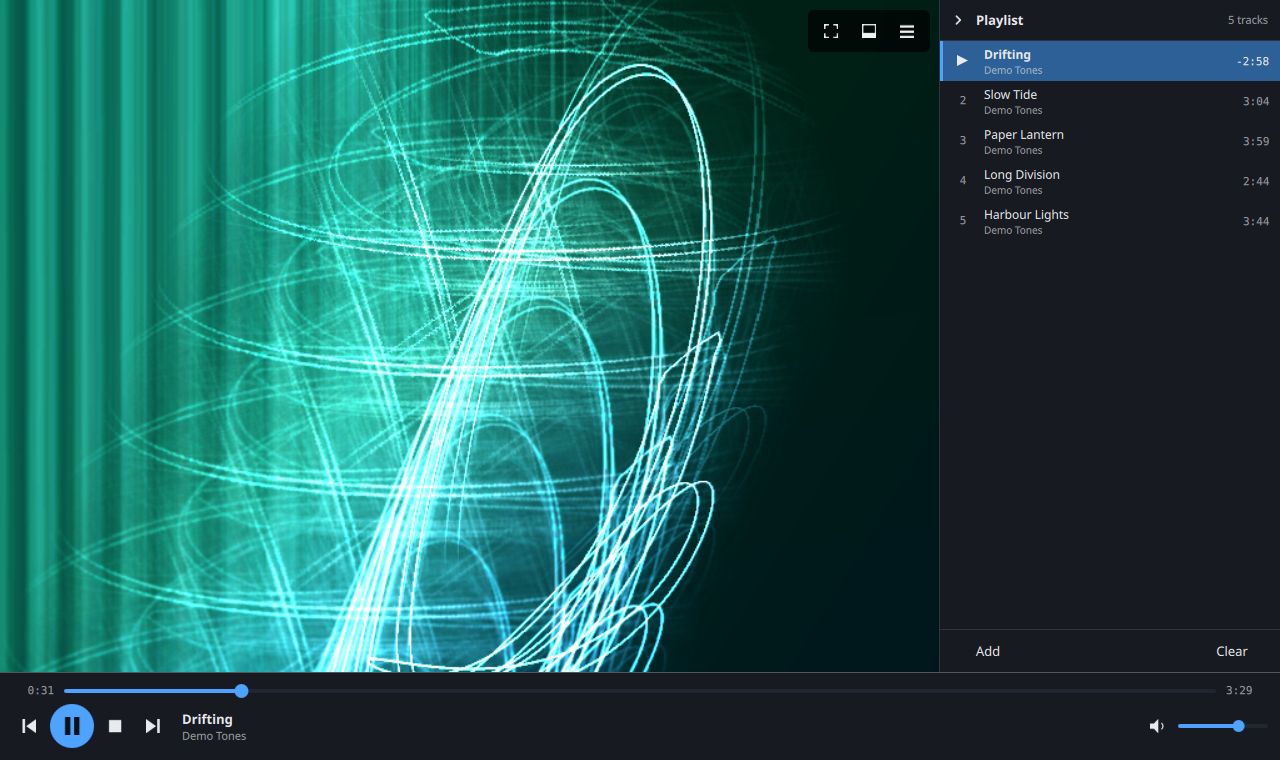
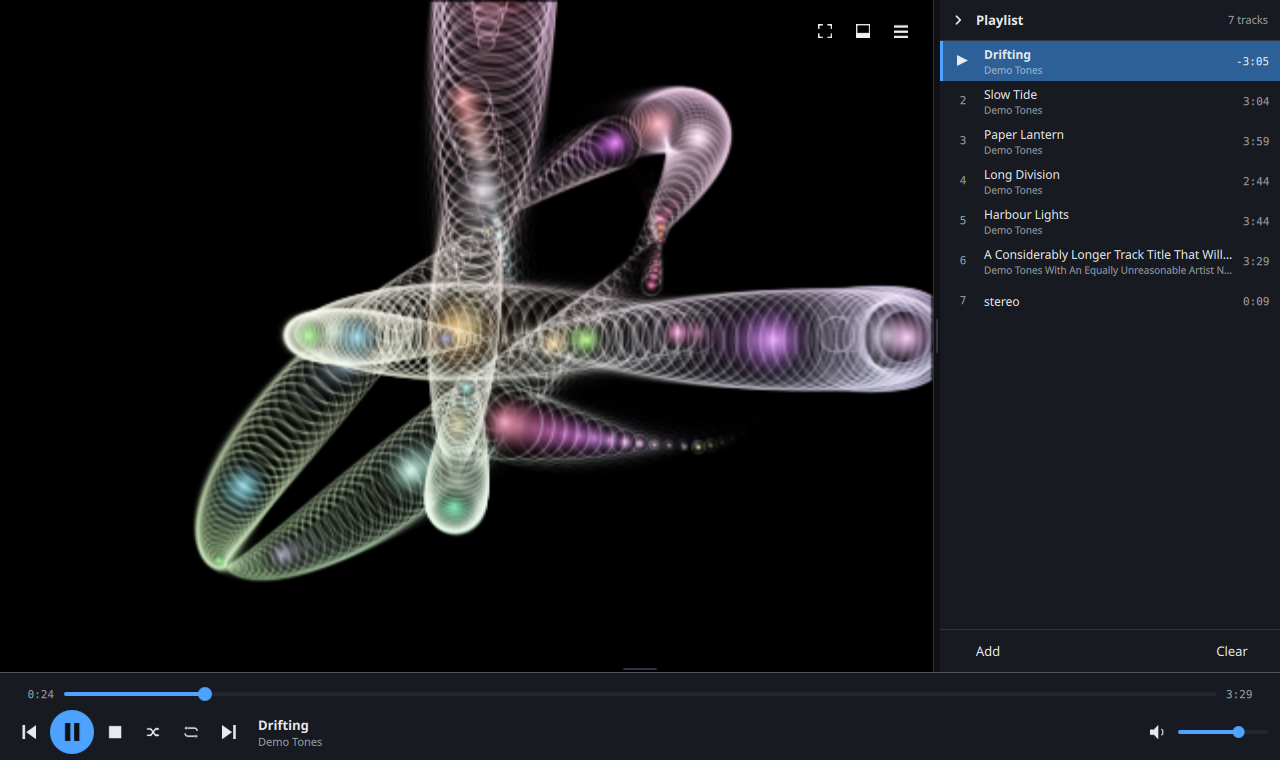
Bound-check video frames, and refresh the README for the push
Security review before publishing. One real finding: the video path built
a QImage over the mapped buffer using width, height and stride taken from
the caps, without checking the buffer was big enough to hold them. Nothing
guarantees those agree, and a media player parses untrusted files by
definition, so a malformed or hostile stream could have read past the
mapping. The frame is now dropped with a warning unless the arithmetic
fits.

The README also described the app as it was several versions ago: no
equaliser, no shuffle or repeat, no resizable panels, a four-colour
editor, and Wayland listed as untested. Refreshed, with a section on the
diagnostics now that they are off by default, and a screenshot taken from
the current build.

diff --git a/src/AudioEngine.cpp b/src/AudioEngine.cpp
@@ -256,11 +256,24 @@ GstFlowReturn onNewVideoSample(GstAppSink *sink, gpointer userData)
         const int height = GST_VIDEO_INFO_HEIGHT(&info);
         const int stride = GST_VIDEO_INFO_PLANE_STRIDE(&info, 0);
 
-        // copy() detaches from the mapped buffer, which is unmapped the moment we return.
-        const QImage frame = QImage(map.data, width, height, stride,
-                                    QImage::Format_RGBA8888).copy();
-        gst_buffer_unmap(buffer, &map);
-        engine->deliverVideoFrame(frame);
+        // The dimensions come from the caps and the bytes come from the buffer, and nothing
+        // guarantees the two agree. A file is untrusted input by definition here, so a stream
+        // whose caps claim more than the buffer holds must not be handed to QImage - it would
+        // read past the mapping. Cheap to check, and the alternative is an out-of-bounds read on
+        // a malformed or hostile video.
+        const bool sane = width > 0 && height > 0 && stride > 0
+                          && map.size >= static_cast<gsize>(height) * static_cast<gsize>(stride);
+        if (sane) {
+            // copy() detaches from the mapped buffer, which is unmapped the moment we return.
+            const QImage frame = QImage(map.data, width, height, stride,
+                                        QImage::Format_RGBA8888).copy();
+            gst_buffer_unmap(buffer, &map);
+            engine->deliverVideoFrame(frame);
+        } else {
+            qWarning("video: frame %dx%d stride %d does not fit in %zu bytes; dropped",
+                     width, height, stride, static_cast<size_t>(map.size));
+            gst_buffer_unmap(buffer, &map);
+        }
     }
 
     gst_sample_unref(sample);

diff --git a/README.md b/README.md
@@ -12,9 +12,12 @@ try to organise your music collection.
 
 ## What it does
 
-- **Transport** — play, pause, stop, next, previous, seek, volume
+- **Transport** — play, pause, stop, next, previous, seek, volume, shuffle, and repeat that cycles
+  off / playlist / one track
 - **Visualisations** — projectM (Milkdrop) presets, embedded or fullscreen, driven by the decoded
   audio. Right-click the visualiser to pick a preset by category, or leave it to rotate.
+- **Equaliser** — twelve preset curves and a ten-band custom mixer, with boosts compensated
+  automatically so a loud curve cannot clip
 - **One playlist** — drag to reorder, multi-select, remove, save and load M3U. Not tabbed
   playlists, not a library.
 - **Video** — plays video on the same surface the visualiser uses, letterboxed, with the controls
@@ -22,8 +25,10 @@ try to organise your music collection.
 - **Internet radio** — streams are entries in the same playlist, with station metadata in the
   now-playing line
 - **Mini-player** — a compact always-on-top layout
+- **A resizable window** — drag the divider to rebalance the playlist against the visualiser, and
+  the top of the transport to make it taller; the controls scale with it
 - **Themes** — follows the desktop's light/dark setting, with ten ready-made palettes and a
-  four-colour custom editor
+  five-colour custom editor, including the visualiser background and how strongly it tints
 - **MPRIS** — media keys and desktop integration
 
 **Deliberately not included:** library management, lyrics, social features, third-party service
@@ -110,12 +115,24 @@ sudo apt install ./build/player/reverie_*_amd64.deb
 
 Reverie is usable and in active development. Known gaps, stated plainly:
 
-- **Wayland is untested.** It should work — nothing is architected against it — but the only
-  platform it has been exercised on is X11. Always-on-top for the mini-player is X11-only and
+- **Wayland works but is less exercised than X11.** It has been run under both, and the mini-player
+  in particular needed a Wayland-specific fix. Always-on-top for the mini-player is X11-only and
   cannot be done portably on Wayland.
 - **Subtitles, hardware decode and video track selection** are not implemented.
-- **Performance figures assume software rendering.** On a GPU everything below is far better than
-  the numbers above suggest.
+- **The performance figures above assume software rendering.** On a machine with a working GPU
+  everything is considerably faster than they suggest.
+
+## Diagnostics
+
+A normal run prints a handful of lines: where the presets came from, what the audio chain did,
+which output sink was chosen, and any warnings. If something needs investigating, the detailed
+instrumentation is an environment variable away rather than a rebuild:
+
+```sh
+QT_LOGGING_RULES='reverie.*.debug=true' reverie    # frame times, render scale, preset changes
+PLAYER_AUDIO_SINK=pulsesink reverie                # force a specific GStreamer audio sink
+PLAYER_BUS_TRACE=1 reverie                         # every GStreamer bus message
+```
 
 ## Licence
 
